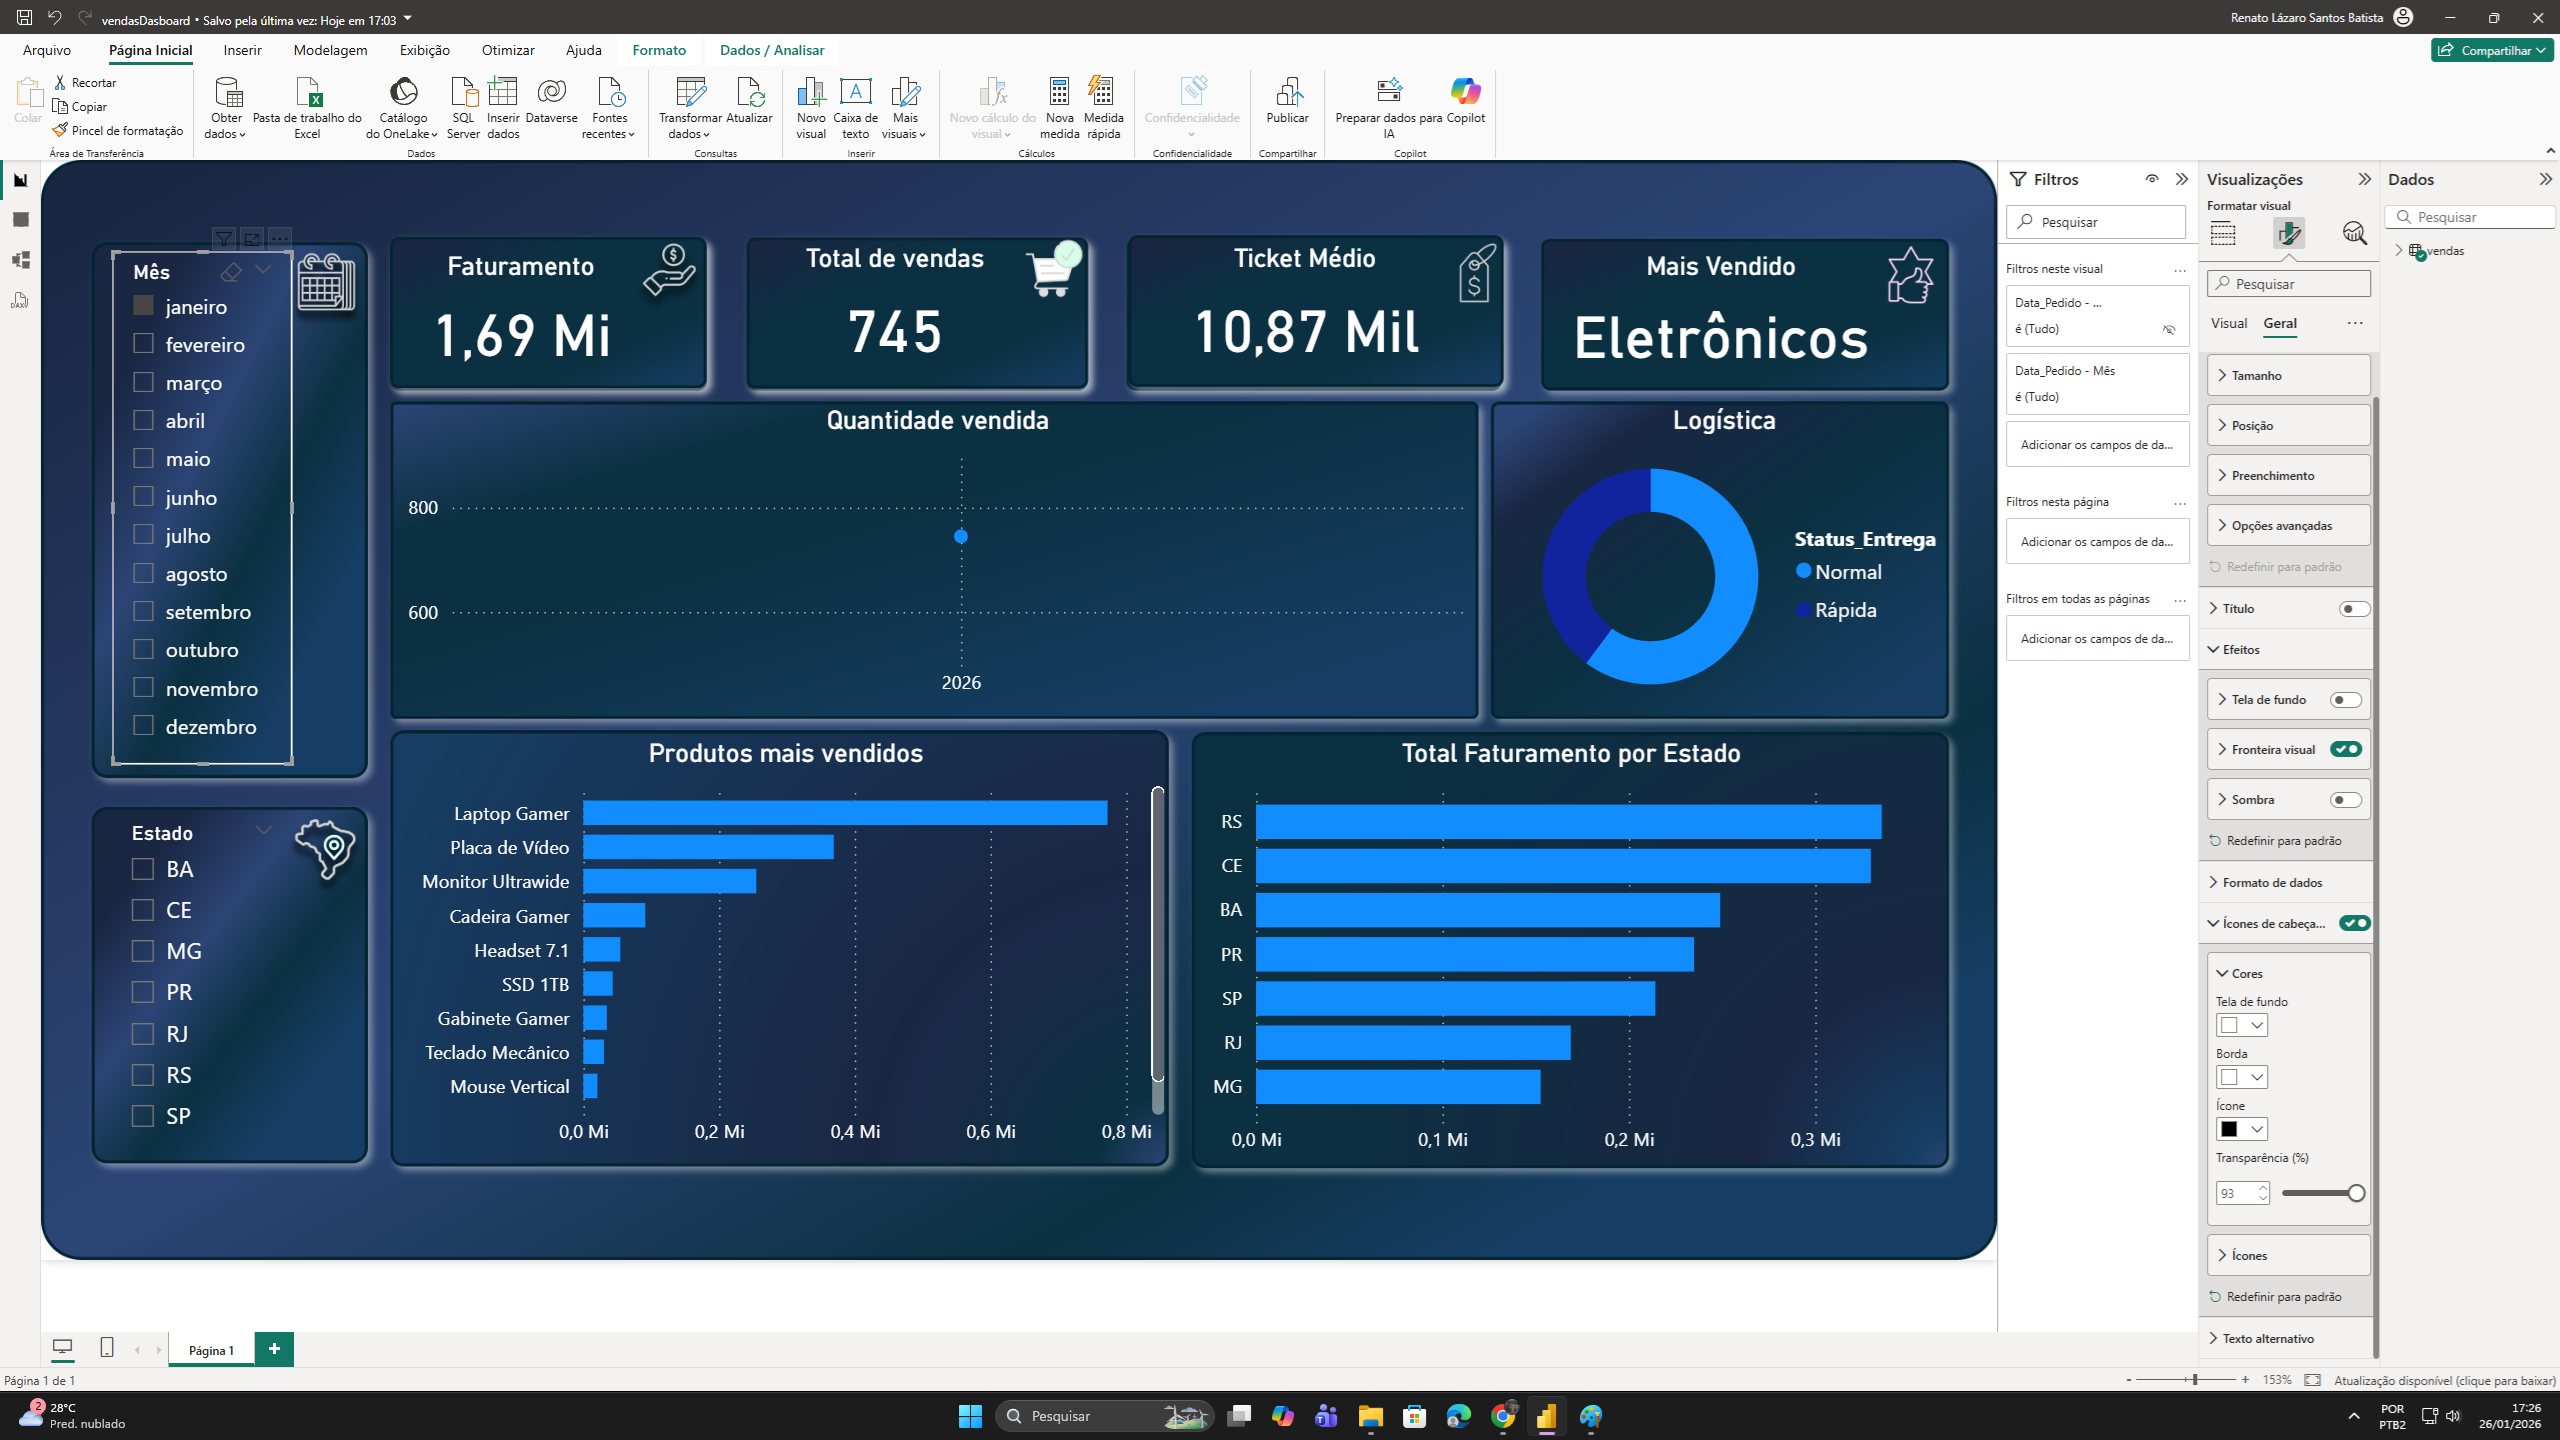
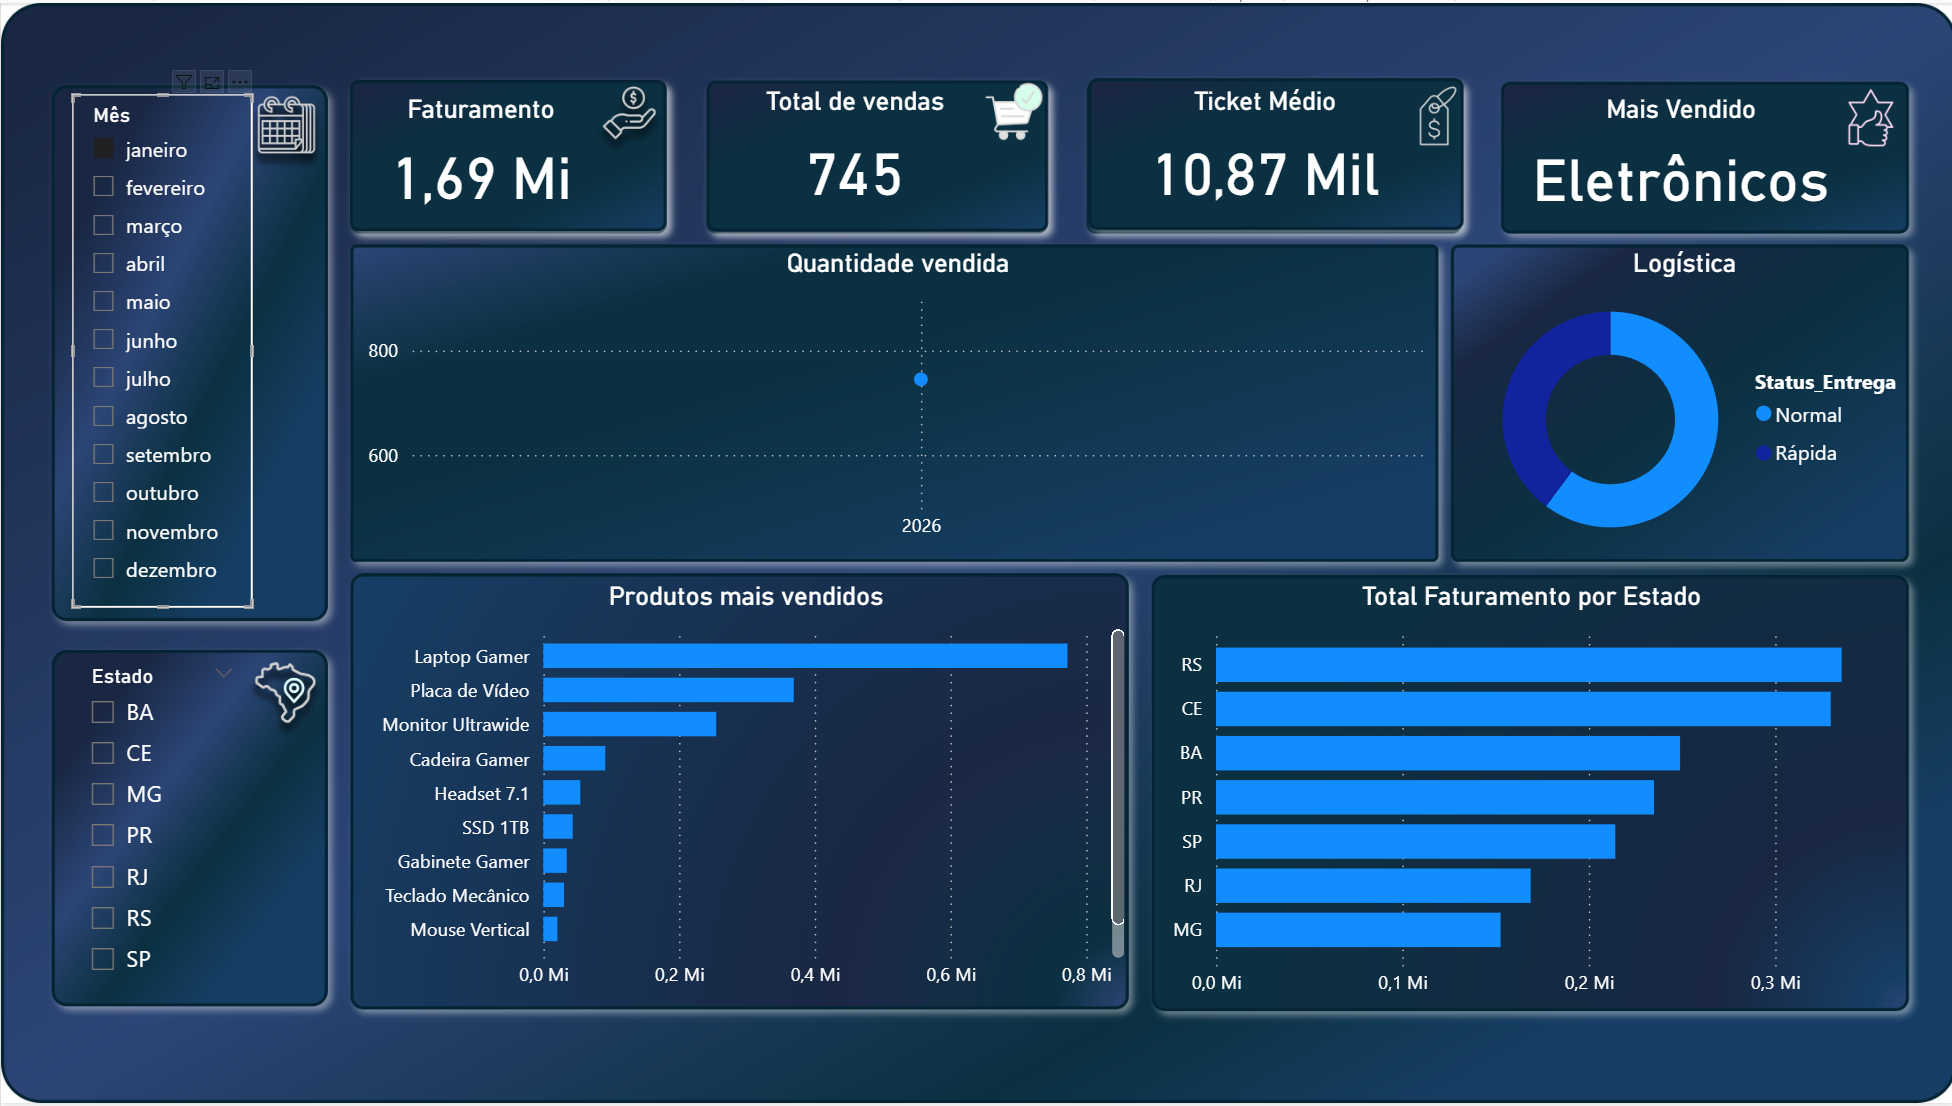
docs: atualiza prints do dashboard e e-mail do autor

diff --git a/README.md b/README.md
@@ -78,7 +78,7 @@ Interatividade e comportamento dos dados sob filtros específicos:
 
 - LinkedIn: [renato-santos-dados](https://www.linkedin.com/in/renato-santos-dados/)
 - Portfólio: [natoawayrj.github.io](https://natoawayrj.github.io/)
-- E-mail: nato_rj@yahoo.com.br
+- E-mail: natoawayrj@gmail.com
 
 ## Licença
 
